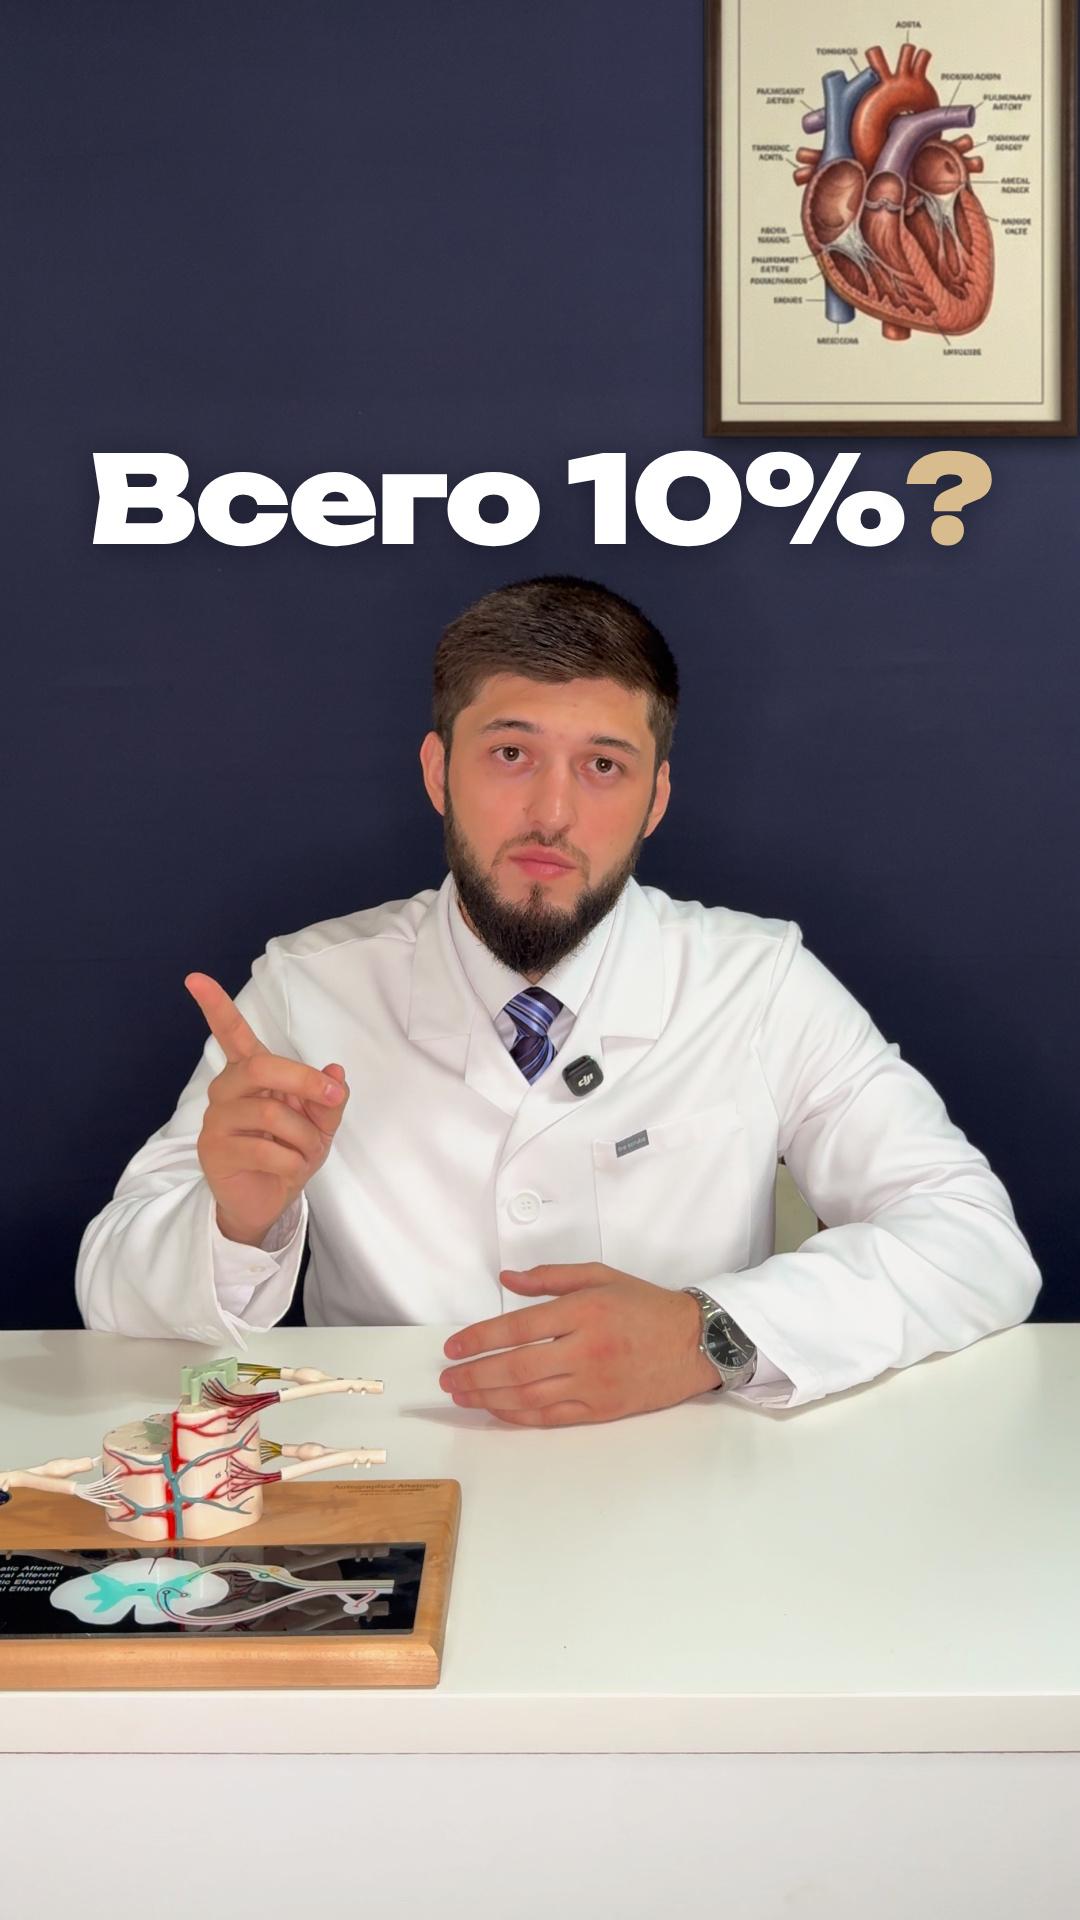
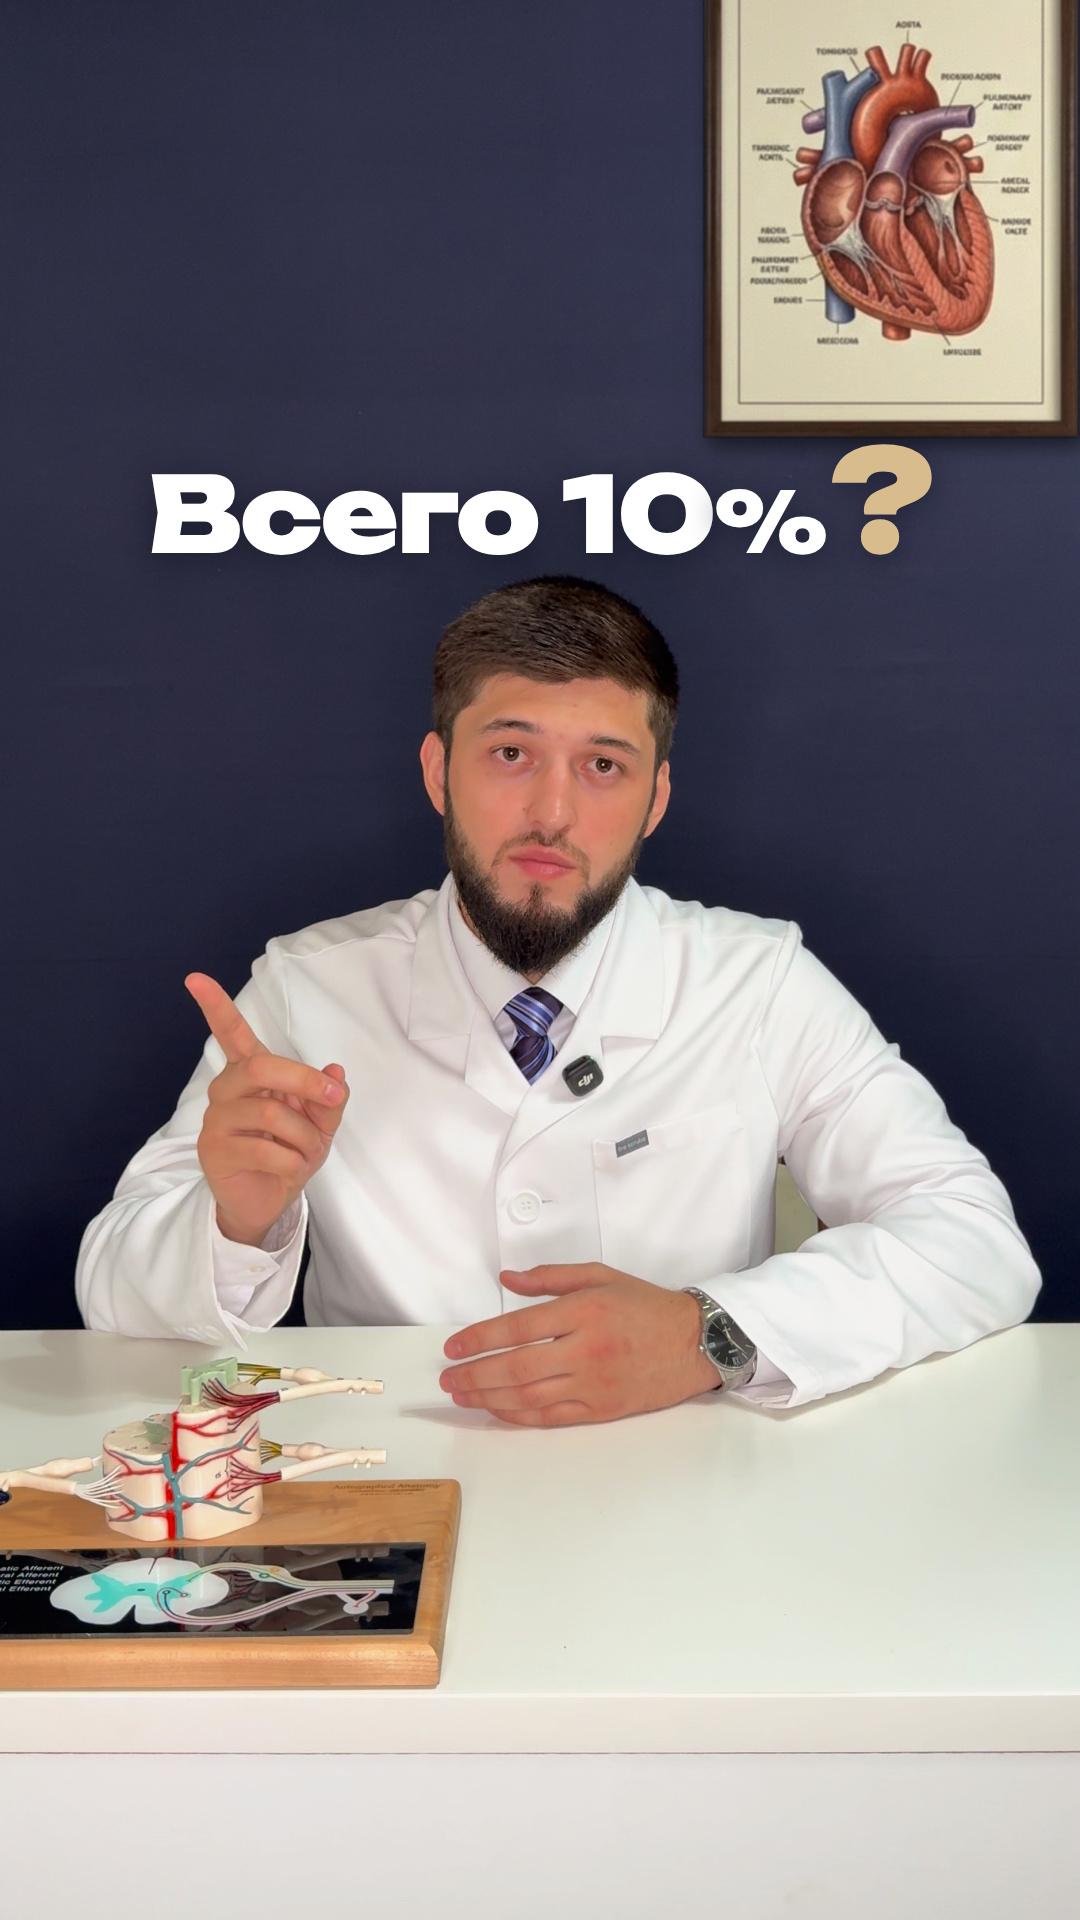
Reel 2 covers 17 and 21: bigger "?", smaller "%"; add screenshot base tool
Per the client: the "?" is 1.35× the line and the "%" 0.8× the digits.
Cover 17 keeps its caps centred on the client's mark; cover 21 is a little
smaller (105 px) so the taller "?" clears the poster. Adds
base_from_screenshot.py, which builds a cover base straight from a phone
screenshot: crops the letterbox, removes the handle from the wall (smooth
wall model plus grain from clean wall) and makes the 1.15x crop through
EDSR x2. Covers 22 and 23 (17 and 21 on the client's second screenshot) are
defined; their base is still being computed.

Claude-Session: https://claude.ai/code/session_01CUeAeRhq8HGUP8vv7VWuP4

Changed region(s): [[0.0917, 0.2188, 0.9167, 0.3125]]

diff --git a/doctor-intro-reels/reel_2/covers/cover.html b/doctor-intro-reels/reel_2/covers/cover.html
@@ -36,6 +36,8 @@
   .dots i { width: 16px; height: 16px; border-radius: 50%; background: rgba(255,255,255,.22); display: block; }
   .dots i.m { background: var(--acc); box-shadow: 0 0 14px rgba(216,188,142,.65); }
   .frame { position: absolute; border: 2px solid rgba(216,188,142,.85); border-radius: 26px; }
+  .pct { font-size: .8em; }                          /* «%» чуть меньше цифр */
+  .q { font-size: 1.35em; margin-left: .03em; }      /* «?» крупнее строки */
   .mark { display: inline-block; line-height: .84; padding: .07em .1em .03em; background: var(--acc); color: #151b34;
           border-radius: .07em; text-shadow: none; }
   html.measure img.full { visibility: hidden; }
@@ -108,7 +110,7 @@ const V = {
   16: { z: "c", base: "base2", person: true, behind: `
       <div class="t inter" data-w="944" data-center style="top:421px; font-weight:900; font-size:170px; letter-spacing:-.035em">Всего 10%<span class="acc" style="font-size:1.1em">?!</span></div>` },
   17: { z: "b", base: "base2", front: `
-      <div class="t unb" data-w="652" style="left:30px; top:315px; font-weight:900; font-size:90px; letter-spacing:-.02em">ВСЕГО 10%<span class="acc">?</span></div>` },
+      <div class="t unb" data-w="652" style="left:30px; top:291px; font-weight:900; font-size:90px; letter-spacing:-.02em">ВСЕГО 10<span class="pct">%</span><span class="acc q">?</span></div>` },
   18: { z: "b", base: "base2", person: true, behind: `
       <div class="t osw" data-w="944" data-center style="top:432px; font-weight:700; font-size:180px; letter-spacing:.01em">ВСЕГО 10%<span class="coral" style="font-size:1.06em">?!</span></div>` },
   19: { z: "a", base: "base2", front: `
@@ -117,7 +119,13 @@ const V = {
       <div class="t mont" data-w="800" data-center style="top:398px; font-weight:900; font-size:110px; letter-spacing:-.02em">Всего <span class="mark">10%</span><span style="font-size:1.1em">?!</span></div>` },
   // № 21 — № 17 в прежнем виде (до правок по разметке), только без «!»: тот же кегль, по центру.
   21: { z: "b", base: "base2", front: `
-      <div class="t unb" data-center style="top:438px; font-weight:900; font-size:121.34px; letter-spacing:-.02em">Всего 10%<span class="acc">?</span></div>` },
+      <div class="t unb" data-center style="top:430px; font-weight:900; font-size:105px; letter-spacing:-.02em">Всего 10<span class="pct">%</span><span class="acc q">?</span></div>` },
+  // № 22, 23 — № 17 и № 21 на кадре со скриншота заказчика (base3: руки сложены, ник убран);
+  // голова здесь на 7 px выше, поэтому строка № 23 чуть меньше — зазоры до картины и макушки равны.
+  22: { z: "b", base: "base3", front: `
+      <div class="t unb" data-w="652" style="left:30px; top:291px; font-weight:900; font-size:90px; letter-spacing:-.02em">ВСЕГО 10<span class="pct">%</span><span class="acc q">?</span></div>` },
+  23: { z: "b", base: "base3", front: `
+      <div class="t unb" data-center style="top:427px; font-weight:900; font-size:103px; letter-spacing:-.02em">Всего 10<span class="pct">%</span><span class="acc q">?</span></div>` },
 };
 window.setVariant = async (n) => {
   const v = V[n];

diff --git a/doctor-intro-reels/reel_2/covers/scripts/base_from_screenshot.py b/doctor-intro-reels/reel_2/covers/scripts/base_from_screenshot.py
@@ -1,0 +1,107 @@
+"""Основа обложки прямо из скриншота заказчика (без поиска кадра в видео).
+
+1. Из скриншота телефона вырезается кадр ролика (чёрные поля сверху и снизу), 1080×1920.
+2. Ник «abduragimov_cvs» убирается со стены: буквы закрашиваются по окружающей стене,
+   поверх кладётся зерно, взятое с чистого участка той же стены, — заплатка не видна.
+3. Крупность 1,15× — то же окно кадрирования, что у планов ролика (zoom_crop): участок
+   увеличивается нейросетью EDSR ×2 и уменьшается до 1080×1920, без мыла от растяжения.
+4. Маска фигуры (RVM) — для проверки раскладки текста и вариантов «текст за спиной».
+
+python3 scripts/base_from_screenshot.py reference/screenshot_cover_frame3.jpg --out base3
+"""
+import argparse
+import json
+import os
+import sys
+
+import cv2
+import numpy as np
+
+HERE = os.path.dirname(os.path.abspath(__file__))
+COVERS = os.path.dirname(HERE)
+REEL = os.path.dirname(COVERS)
+sys.path.insert(0, os.path.join(REEL, "scripts"))
+sys.path.insert(0, os.path.join(os.path.dirname(REEL), "side_angle_2", "scripts"))
+from assemble import EYES_FRAC, EYES_Y4, FACE_X4, SH, SW  # noqa: E402
+import process as P  # noqa: E402  (Matter: RVM + guided filter)
+
+EDSR = os.environ.get("EDSR_MODEL", "/tmp/claude-0/-home-user-product-cardd/382abc70-8892-52f3-853b-5bc8f0827c50"
+                                    "/scratchpad/models/EDSR_x2.pb")
+NICK_BOX = (120, 330, 40, 640)            # y0, y1, x0, x1 — где на кадре стоит ник
+WALL_PATCH = (330, 470, 60, 600)          # чистая стена под ником: образец зерна
+
+ap = argparse.ArgumentParser()
+ap.add_argument("screenshot")
+ap.add_argument("--out", default="base3")
+ap.add_argument("--clean-only", action="store_true", help="только убрать ник (без 1,15× и маски)")
+args = ap.parse_args()
+OUT = os.path.join(COVERS, args.out)
+os.makedirs(OUT, exist_ok=True)
+
+# 1. кадр без чёрных полей
+shot = cv2.imread(args.screenshot)
+rows = np.where(shot.mean((1, 2)) > 8)[0]
+cols = np.where(shot.mean((0, 2)) > 8)[0]
+frame = shot[rows.min():rows.max() + 1, cols.min():cols.max() + 1]
+if frame.shape[:2] != (1920, 1080):
+    frame = cv2.resize(frame, (1080, 1920), interpolation=cv2.INTER_LANCZOS4)
+print("кадр со скриншота:", frame.shape[1], "×", frame.shape[0])
+
+# 2. ник: светлые буквы на тёмной стене → маска → заливка по стене + зерно стены
+y0, y1, x0, x1 = NICK_BOX
+reg = frame[y0:y1, x0:x1]
+lum = cv2.cvtColor(reg, cv2.COLOR_BGR2GRAY).astype(np.float32)
+wall = np.median(lum)
+mask = np.zeros(frame.shape[:2], np.uint8)
+mask[y0:y1, x0:x1] = (lum > wall + 22).astype(np.uint8) * 255
+# с запасом: у светлых букв после сжатия видео тёмный ореол — он тоже уходит под заливку
+mask = cv2.dilate(mask, cv2.getStructuringElement(cv2.MORPH_ELLIPSE, (23, 23)))
+ys, xs = np.where(mask > 0)
+print(f"ник: x {xs.min()}–{xs.max()}, y {ys.min()}–{ys.max()}, {int((mask > 0).sum())} пикс. под заливку")
+# стена под буквами — гладкий фон по окрестности (нормированная свёртка без пикселей маски)
+keep = (mask == 0).astype(np.float32)
+fill = cv2.GaussianBlur(frame.astype(np.float32) * keep[..., None], (0, 0), 28)
+fill /= np.maximum(cv2.GaussianBlur(keep, (0, 0), 28), 1e-3)[..., None]
+smooth = fill
+py0, py1, px0, px1 = WALL_PATCH
+patch = frame[py0:py1, px0:px1].astype(np.float32)
+grain = patch - cv2.GaussianBlur(patch, (0, 0), 3)               # зерно чистой стены
+gh, gw = grain.shape[:2]
+reps = (int(np.ceil(1920 / gh)), int(np.ceil(1080 / gw)), 1)
+grain_full = np.tile(grain, reps)[:1920, :1080]
+soft = cv2.GaussianBlur(mask.astype(np.float32) / 255, (0, 0), 3)[..., None]
+clean = frame.astype(np.float32) * (1 - soft) + (smooth + grain_full) * soft
+clean = np.clip(np.round(clean), 0, 255).astype(np.uint8)
+cv2.imwrite(os.path.join(OUT, "frame_1080_z1.00.png"), clean)
+if args.clean_only:
+    sys.exit(0)
+
+# 3. крупность 1,15× — окно как у zoom_crop, увеличение EDSR ×2 и точное уменьшение
+z = 1.15
+cw, ch = SW / z, SH / z
+cx0 = min(max(FACE_X4 - cw / 2, 0), SW - cw) / 2                   # в координатах 1080×1920
+cy0 = min(max(EYES_Y4 - EYES_FRAC * ch, 0), SH - ch) / 2
+cw, ch = cw / 2, ch / 2
+bx0, by0 = int(cx0) - 8, int(cy0) - 8
+bx1, by1 = min(int(cx0 + cw) + 9, 1080), min(int(cy0 + ch) + 9, 1920)
+sr = cv2.dnn_superres.DnnSuperResImpl_create()
+sr.readModel(EDSR)
+sr.setModel("edsr", 2)
+big = sr.upsample(clean[by0:by1, bx0:bx1])
+gx, gy = round((cx0 - bx0) * 2), round((cy0 - by0) * 2)
+zoomed = cv2.resize(big[gy:gy + round(ch * 2), gx:gx + round(cw * 2)], (1080, 1920), interpolation=cv2.INTER_AREA)
+cv2.imwrite(os.path.join(OUT, "frame_1080_z1.15.png"), zoomed)
+print(f"1,15×: окно x {cx0:.1f}, y {cy0:.1f}, {cw:.1f}×{ch:.1f} → EDSR ×2 → 1080×1920")
+
+# 4. маска фигуры: RVM несколько раз по одному кадру (рекуррентное состояние успевает сойтись)
+for name, img in (("1.00", clean), ("1.15", zoomed)):
+    rgb = cv2.cvtColor(img, cv2.COLOR_BGR2RGB)
+    matter = P.Matter()
+    for _ in range(6):
+        _, a = matter(rgb)
+    a8 = np.clip(P.refine_alpha(rgb, a) * 255, 0, 255).astype(np.uint8)
+    cv2.imwrite(os.path.join(OUT, f"alpha_z{name}.png"), a8)
+    cv2.imwrite(os.path.join(OUT, f"person_z{name}.png"), np.dstack([img, a8]))
+json.dump({"source": os.path.basename(args.screenshot), "how": "кадр взят из скриншота, ник убран, 1,15× через EDSR ×2"},
+          open(os.path.join(OUT, "frame.json"), "w"), ensure_ascii=False)
+print("готово:", OUT)

diff --git a/doctor-intro-reels/reel_2/covers/scripts/export.py b/doctor-intro-reels/reel_2/covers/scripts/export.py
@@ -10,7 +10,7 @@ OUT = os.path.join(os.path.dirname(os.path.dirname(os.path.abspath(__file__))), 
 FONT = ImageFont.truetype("/usr/share/fonts/opentype/inter/Inter-SemiBold.otf", 30)
 COLS, TILE_W, GAP, LABEL = 5, 300, 16, 56
 GRID_CROP = (0, 240, 1080, 1680)
-SERIES = {"1-15": range(1, 16), "16-21": range(16, 22)}   # 16–21: «Всего 10%?!» в одну строку и правки
+SERIES = {"1-15": range(1, 16), "16-23": range(16, 24)}   # 16–23: «Всего 10%?!» в одну строку и правки
 
 
 def sheet(numbers, images, crop, name):

diff --git a/doctor-intro-reels/reel_2/covers/README.md b/doctor-intro-reels/reel_2/covers/README.md
@@ -1,12 +1,16 @@
 # Обложки Reels «Для чего создан мой блог»
 
-**Готовые обложки:** `output/cover_01.jpg` … `output/cover_21.jpg` — 1080×1920 (9:16), JPG 95 %.
-№ 16–21 — вторая серия: «Всего 10%?!» в одну строку; вариант 2 серии — в двух видах: № 17
-(«ВСЕГО 10%?» по разметке заказчика) и № 21 (прежний вид, без «!»). Обзоры каждой серии: `output/_обзор_1-15_…`,
-`output/_обзор_16-21_…` — обложка целиком (9:16) и как она выглядит в сетке профиля (3:4).
+**Готовые обложки:** `output/cover_01.jpg` … `output/cover_23.jpg` — 1080×1920 (9:16), JPG 95 %.
+№ 16–23 — вторая серия: «Всего 10%?!» в одну строку; вариант 2 серии — в двух видах: № 17
+(«ВСЕГО 10%?» по разметке заказчика) и № 21 (прежний вид, без «!»); № 22 и 23 — они же на кадре
+со второго скриншота заказчика. В № 17, 21, 22, 23 «?» крупнее строки (1,35), «%» чуть меньше цифр (0,8). Обзоры каждой серии: `output/_обзор_1-15_…`,
+`output/_обзор_16-23_…` — обложка целиком (9:16) и как она выглядит в сетке профиля (3:4).
 
 - **Кадр** взят прямо из 4K-исходника, обработка та же, что в ролике (HDR→SDR, картина сердца
   на стене). Ника/водяного знака на обложках нет.
+  - № 22, 23 — кадр прямо со второго скриншота заказчика (`reference/screenshot_cover_frame3.jpg`,
+    руки сложены): ник со стены убран, 1,15× — через нейросетевое увеличение EDSR ×2
+    (`base_from_screenshot.py`), основа — `base3/`.
   - № 16–21 — кадр со скриншота заказчика (`reference/screenshot_cover_frame.jpg`): 99,70 с
     исходника, поднятый палец, **рот закрыт**. Найден сравнением контуров лица и руки со
     скриншотом (`base_frame.py --ref`), основа — `base2/`.
@@ -35,11 +39,13 @@
 | 14 | всего / 10%? | Cormorant Garamond за спиной врача, план 1,30× |
 | 15 | Для чего этот блог? | название ролика вопросом |
 | 16 | Всего 10%?! | одна строка во всю ширину за головой, Inter Black, золотые «?!», план 1,30× |
-| 17 | ВСЕГО 10%? | широкий Unbounded заглавными, без «!»; строка слева от картины на уровне её нижней части — по разметке заказчика, план 1,15× |
+| 17 | ВСЕГО 10%? | широкий Unbounded заглавными, без «!», крупный «?» и меньший «%»; строка слева от картины на уровне её нижней части — по разметке заказчика, план 1,15× |
 | 18 | ВСЕГО 10%?! | узкий Oswald за головой, коралловые «?!», план 1,15× |
 | 19 | Всего 10%?! | антиква: маленькое курсивное «Всего», крупные «10%», золотые «?!»; общий план |
 | 20 | Всего 10%?! | «10%» на золотой плашке, Montserrat, план 1,30× |
-| 21 | Всего 10%? | № 17 в прежнем виде, только без «!»: Unbounded, строка целиком между картиной и головой, план 1,15× |
+| 21 | Всего 10%? | № 17 в прежнем виде без «!», крупный «?» и меньший «%»: Unbounded, строка целиком между картиной и головой, план 1,15× |
+| 22 | ВСЕГО 10%? | № 17 на кадре со второго скриншота (руки сложены) |
+| 23 | Всего 10%? | № 21 на кадре со второго скриншота (руки сложены) |
 
 Загрузка: при публикации Reels → «Изменить обложку» → «Добавить из галереи / фотоплёнки».
 
@@ -49,6 +55,7 @@
 python3 scripts/base_frame.py                  # кадр из 4K-исходника → base/frame_*.png (нужен ../../sources)
 python3 scripts/base_frame.py --ref reference/screenshot_cover_frame.jpg --out base2 --from 99.55 --to 99.90
 python3 scripts/matte.py [--out base2]         # маска фигуры (RVM) → person_z*.png
+python3 scripts/base_from_screenshot.py reference/screenshot_cover_frame3.jpg --out base3   # основа из скриншота
 NODE_PATH=$(npm root -g) node scripts/render_covers.js [номера]   # cover.html → output/cover_NN.png
 python3 scripts/export.py                      # JPG + обзоры
 NODE_PATH=$(npm root -g) node scripts/measure_text.js <папка> [номера] && python3 scripts/qc_text.py <папка>  # проверка
